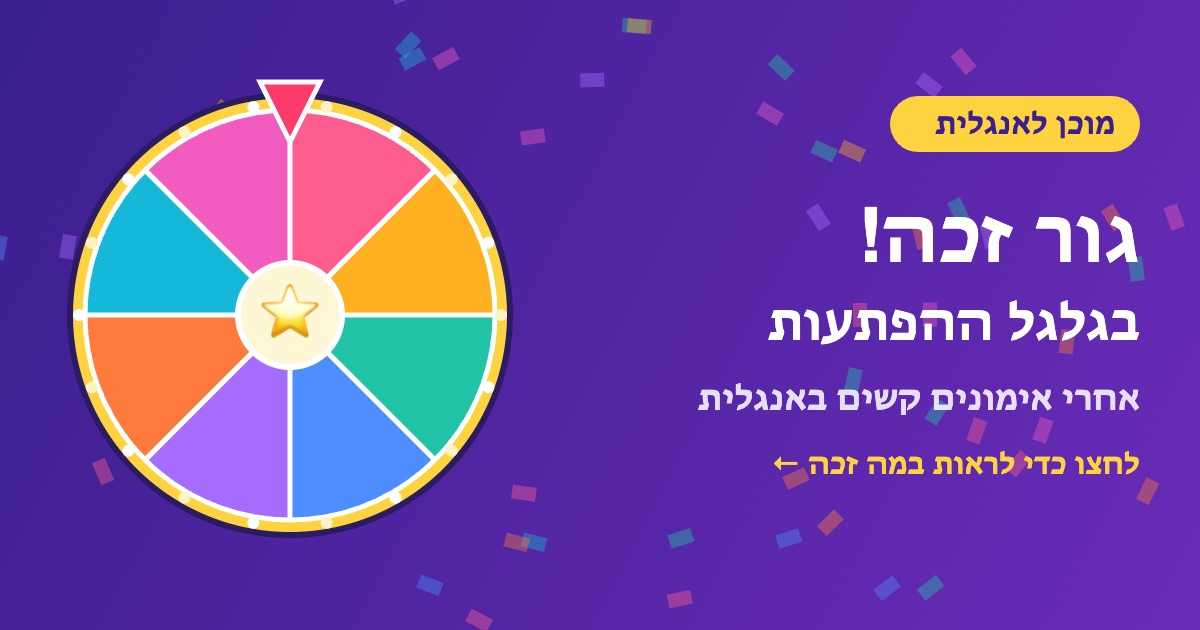
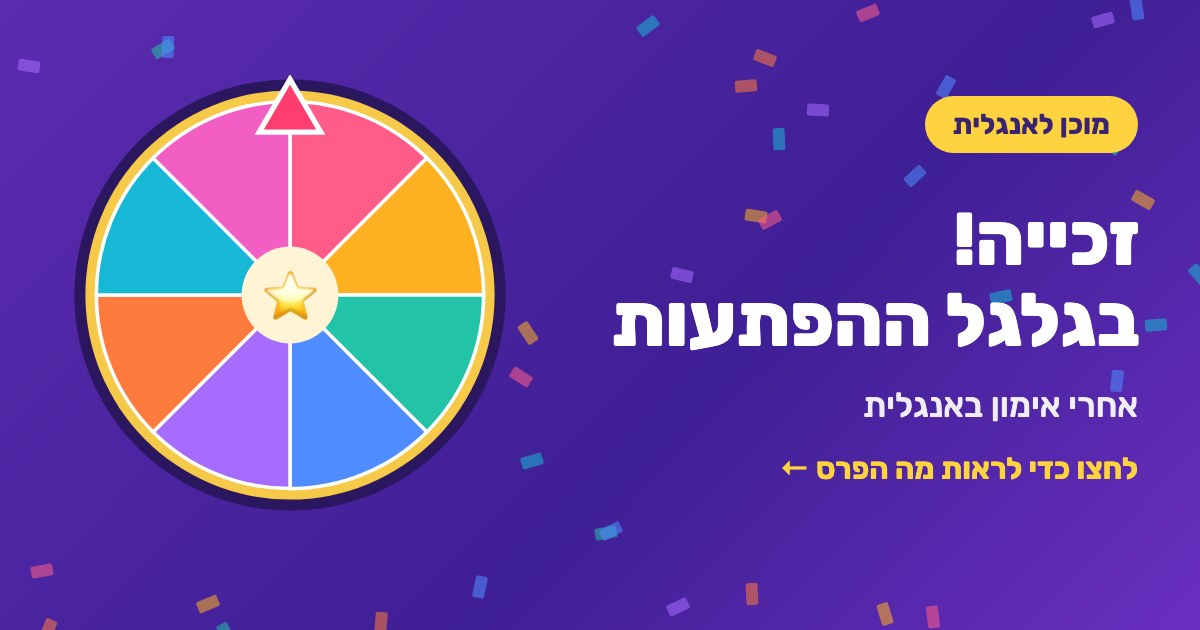
english-ready: link previews fit every track (no test, no 'numbers to 12', talks to the kid), new preview images; win page no longer names one child, says זכה/זכתה by the kid

diff --git a/english-ready/w.html b/english-ready/w.html
@@ -3,22 +3,22 @@
 <head>
 <meta charset="utf-8">
 <meta name="viewport" content="width=device-width,initial-scale=1,viewport-fit=cover">
-<title>גור זכה בגלגל ההפתעות · מוכן לאנגלית</title>
+<title>🎡 זכייה בגלגל ההפתעות · מוכן לאנגלית</title>
 
 <!-- WhatsApp and the rest read these from the raw HTML and never run the script below,
      so the preview is the same for every win. The win itself loads when the page opens. -->
 <meta property="og:type" content="website">
 <meta property="og:site_name" content="מוכן לאנגלית">
-<meta property="og:title" content="🎡 גור זכה בגלגל ההפתעות!">
-<meta property="og:description" content="אחרי אימונים קשים באנגלית. לחצו כדי לראות במה זכה.">
-<meta property="og:image" content="https://yaelavgil.github.io/yaella/english-ready/og-win.jpg">
+<meta property="og:title" content="🎡 זכייה בגלגל ההפתעות!">
+<meta property="og:description" content="אחרי אימון באנגלית. לחצו כדי לראות מה הפרס.">
+<meta property="og:image" content="https://yaelavgil.github.io/yaella/english-ready/og-win.jpg?v=2">
 <meta property="og:image:width" content="1200">
 <meta property="og:image:height" content="630">
 <meta property="og:url" content="https://yaelavgil.github.io/yaella/english-ready/w.html">
 <meta name="twitter:card" content="summary_large_image">
-<meta name="twitter:title" content="🎡 גור זכה בגלגל ההפתעות!">
-<meta name="twitter:description" content="אחרי אימונים קשים באנגלית. לחצו כדי לראות במה זכה.">
-<meta name="twitter:image" content="https://yaelavgil.github.io/yaella/english-ready/og-win.jpg">
+<meta name="twitter:title" content="🎡 זכייה בגלגל ההפתעות!">
+<meta name="twitter:description" content="אחרי אימון באנגלית. לחצו כדי לראות מה הפרס.">
+<meta name="twitter:image" content="https://yaelavgil.github.io/yaella/english-ready/og-win.jpg?v=2">
 <meta name="theme-color" content="#3B1F8F">
 
 <link rel="icon" href="favicon.ico">
@@ -54,7 +54,7 @@
 </head>
 <body>
 <main class="wrap">
-  <h1>🎡 גור זכה בגלגל ההפתעות</h1>
+  <h1>🎡 זכייה בגלגל ההפתעות</h1>
   <p class="sub">אחרי אימונים קשים באנגלית</p>
   <div class="card"><div class="ph" id="slot">טוען את הזכייה…</div></div>
   <div class="row" id="acts" hidden>
@@ -81,7 +81,7 @@ const id = (new URLSearchParams(location.search).get('i') || '').replace(/[^A-Za
     const dl = document.getElementById('dl');
     dl.href = o.d; dl.download = 'win-' + id + '.png';
     document.getElementById('acts').hidden = false;
-    if (o.name) document.querySelector('h1').textContent = `🎡 ${o.name} זכה בגלגל ההפתעות`;
+    if (o.name) document.querySelector('h1').textContent = `🎡 ${o.name} ${o.g === 'f' ? 'זכתה' : 'זכה'} בגלגל ההפתעות`;
   } catch (e) { slot.textContent = 'אין חיבור. נסו שוב.'; }
 })();
 </script>

diff --git a/english-ready/index.html b/english-ready/index.html
@@ -3,14 +3,19 @@
 <head>
 <meta charset="utf-8">
 <meta name="viewport" content="width=device-width, initial-scale=1, viewport-fit=cover">
-<meta name="description" content="תרגול למבחן המיפוי באנגלית: צלילים, אותיות גדולות וקטנות, כתיבה, משפטים, הבנת הנקרא ומספרים עד 12.">
+<meta name="description" content="מסע אנגלית משלך, ברמה שלך: מילים, קריאה, כתיבה ודיבור. כמה דקות ביום, עם כוכבים, חותמות והפתעות.">
 <meta property="og:type" content="website">
-<meta property="og:title" content="מוכן לאנגלית · תרגול למבחן המיפוי">
-<meta property="og:description" content="צלילים, אותיות, משפטים, הבנת הנקרא ומספרים עד 12. כמה דקות בכל יום.">
-<meta property="og:image" content="https://yaelavgil.github.io/yaella/english-ready/og.jpg">
+<meta property="og:title" content="מוכן לאנגלית">
+<meta property="og:site_name" content="מוכן לאנגלית">
+<meta property="og:description" content="מסע אנגלית משלך, ברמה שלך: מילים, קריאה, כתיבה ודיבור. כמה דקות ביום, עם כוכבים, חותמות והפתעות.">
+<meta property="og:image" content="https://yaelavgil.github.io/yaella/english-ready/og.jpg?v=2">
 <meta property="og:image:width" content="1200">
 <meta property="og:image:height" content="630">
 <meta property="og:url" content="https://yaelavgil.github.io/yaella/english-ready/">
+<meta name="twitter:card" content="summary_large_image">
+<meta name="twitter:title" content="מוכן לאנגלית">
+<meta name="twitter:description" content="מסע אנגלית משלך, ברמה שלך: מילים, קריאה, כתיבה ודיבור. כמה דקות ביום, עם כוכבים, חותמות והפתעות.">
+<meta name="twitter:image" content="https://yaelavgil.github.io/yaella/english-ready/og.jpg?v=2">
 <link rel="icon" href="/yaella/favicon.svg" type="image/svg+xml">
 <link rel="icon" href="/yaella/favicon-32.png" sizes="32x32" type="image/png">
 <link rel="apple-touch-icon" href="/yaella/apple-touch-icon.png">
@@ -3550,7 +3555,7 @@ function prepWin(pz, msg, at, art) {
     fr.onload = () => {
       const code = winCode();
       fetch(`${WINS_DB}/${code}.json`, { method: 'PUT', body: JSON.stringify({
-        d: fr.result, name: (KID && KID.name) || '', prize: textOf(pz), he: heOf(pz), at }) })
+        d: fr.result, name: (KID && KID.name) || '', g: GIRL() ? 'f' : 'm', prize: textOf(pz), he: heOf(pz), at }) })
         .then(r => { if (r.ok && lastWin === mine) mine.link = winPage(code); })
         .catch(() => {});
     };
